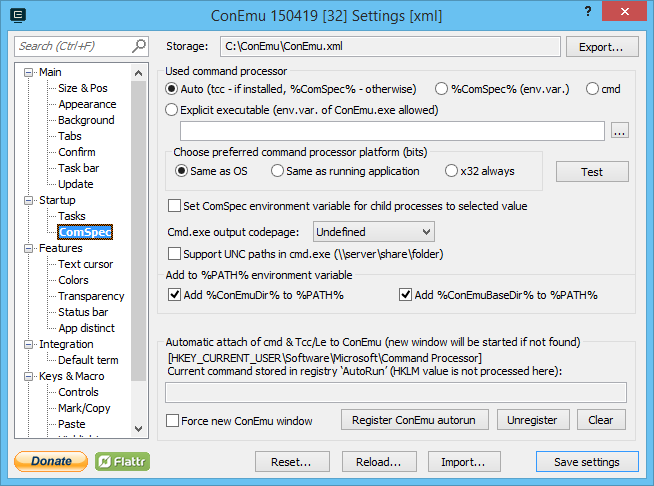
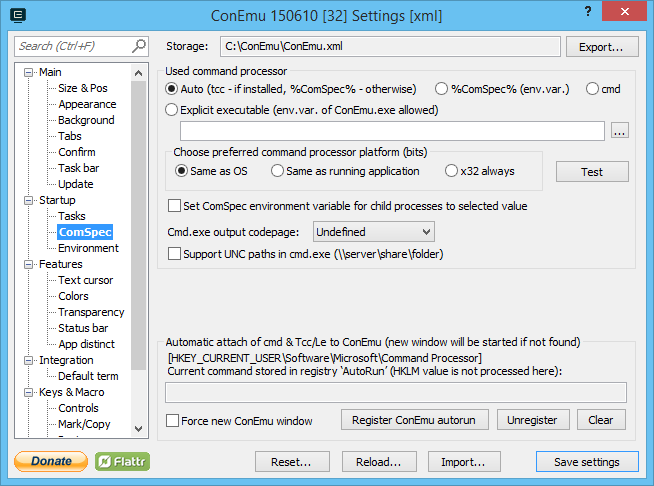
Add 'Environment' page description

diff --git a/en/SettingsEnvironment.md b/en/SettingsEnvironment.md
@@ -1,0 +1,116 @@
+---
+redirect_from: /ru/SettingsEnvironment.html
+
+title: "ConEmu | Settings › Environment page"
+
+readalso:
+ - url: ConEmuEnvironment.html
+   title: "ConEmu Environment Variables"
+ - url: WindowsEnvironment.html
+   title: "Windows Environment Variables"
+ - url: SettingsComspec.html
+   title: "Settings › Comspec page"
+---
+
+# Settings: Environment
+
+{% comment %} IDD_SPG_ENVIRONMENT {% endcomment %}
+
+![ConEmu Settings: Environment](/img/Settings-Environment.png)
+
+
+## Add to %PATH% environment variable
+
+Here you may add to the `PATH` environment variables
+for processes running inside ConEmu
+([tabs](Tabs.html) and [splits](SplitScreen.html)).
+
+**Add %ConEmuDir% to %PATH%**. If checked you may run `ConEmu.exe` and `ConEmu64.exe`
+from your [command-line interpreter](TerminalVsShell.md).
+Example below.
+
+~~~
+ConEmu -basic -noquake -nosingle -startTSA -cmd <build your project command line>
+~~~
+
+**Add %ConEmuBaseDir% to %PATH%**. If checked you may run `ConEmuC.exe` and `ConEmuC64.exe`
+from your [command-line interpreter](TerminalVsShell.md).
+`ConEmuC` is used generally to do some checks (`-IsConEmu` switch)
+and execute [GuiMacro](GuiMacro.html). Example below.
+
+~~~
+ConEmuC -GuiMacro Progress 3
+~~~
+
+
+
+## Set up environment variables, cmd.exe aliases, codepage
+
+Here you may do the fine tuning of your environment
+for processes running inside ConEmu
+([tabs](Tabs.html) and [splits](SplitScreen.html)).
+
+Limited set of commands are supported.
+
+
+### set
+
+You may define your environment variables here. Few examples below.
+
+~~~
+set HOME=C:\DropBox\Home
+set "PATH=%ConEmuBaseDir%\Scripts;%PATH%"
+~~~
+
+
+### chcp
+
+Same as `chcp.exe` standard command, but supports few aliases, for example:
+
+~~~
+chcp utf-8
+~~~
+
+**Don't use this command** if you are not aware of its meaning.
+Changing console code page to anything different from your default OEM page
+may harm output of some unaware console applications.
+
+
+### alias
+
+These aliases will work within `cmd.exe` and [Far Manager](FarManager.html) only.
+Actually this command will do the same thing as `DosKey.exe` is doing.
+Few examples below.
+
+#### "sudo" alias
+
+There is the [csudo](csudo.html) command file, but it is not user-configurable
+(will be overwritten with next update).
+You may create an alias with desired behavior.
+
+~~~
+alias sudo=ConEmuC -c $* -new_console:a
+~~~
+
+And you may just run in your non-elevated cmd.exe prompt (inside ConEmu of course):
+
+~~~
+sudo dispart
+~~~
+
+New elevated tab with `diskpart.exe` will be started (after UAC confirmation).
+
+#### "st" alias
+
+Use "start" to start new console application inside ConEmu
+with disabled `Press Enter or Esc to close console` confirmation.
+
+~~~
+alias st=start $* -cur_console:n
+~~~
+
+We use `-cur_console:n` here instead of `-new_console:n` because
+with `-new_console` new [tab](LaunchNewTab.html) will be created
+with `start` command, `-new_console` will be stripped from arguments
+and ‘true’ tab with your console application will start without
+this switch.

diff --git a/en/SettingsComspec.md b/en/SettingsComspec.md
@@ -2,11 +2,19 @@
 redirect_from: /ru/SettingsComspec.html
 
 title: "ConEmu | Settings › Comspec page"
+
+readalso:
+ - url: SettingsEnvironment.html
+   title: "Settings › Environment page"
+ - url: TerminalVsShell.html
+   title: "Terminal vs Shell"
 ---
 
 # Settings: ComSpec
 
-*This page was generated automatically from ConEmu sources*
+{% comment %}
+*This page was manually edited automatically generated from ConEmu sources)*
+{% endcomment %}
 {% comment %} IDD_SPG_COMSPEC {% endcomment %}
 
 ![ConEmu Settings: ComSpec](/img/Settings-Comspec.png)
@@ -14,9 +22,6 @@ title: "ConEmu | Settings › Comspec page"
 
 
 ## Used command processor
-
-
-
 
 * **Auto (tcc - if installed, %ComSpec% - otherwise)** Start tcc - if installed, %ComSpec% - otherwise (used for ‘Create new ‘cmd.exe’ console’)
 * **%ComSpec% (env.var.)** Use %ComSpec% environment variable (used for ‘Create new ‘cmd.exe’ console’)
@@ -48,31 +53,10 @@ title: "ConEmu | Settings › Comspec page"
 
 **Support UNC paths in cmd.exe (\\server\share\folder)** 
 
-## Add to %PATH% environment variable
-
-**Add %ConEmuDir% to %PATH%** 
-
-**Add %ConEmuBaseDir% to %PATH%** 
-
-
-
-
-
-## Choose preferred command processor platform (bits)
-
-
-
-
-
-## Add to %PATH% environment variable
-
-
 
 
 
 ## Automatic attach of cmd & Tcc/Le to ConEmu (new window will be started if not found)
-
-
 
 **[HKEY_CURRENT_USER\Software\Microsoft\Command Processor] Current command stored in registry ‘AutoRun’ (HKLM value is not processed here)** 
 

diff --git a/en/Settings.md b/en/Settings.md
@@ -25,6 +25,7 @@ description: "Where the settings are stored, Settings dialog description,
   * [Startup](#Startup)
   * [Tasks](#Tasks)
   * [ComSpec](#ComSpec)
+  * [Environment](#Environment)
   * [Features](#Features)
     * [RealConsole font](#RealConsole_font)
   * [Text cursor](#Text_cursor)
@@ -176,6 +177,11 @@ You may open settings dialog in several ways
 <h3 id="ComSpec"> ComSpec </h3>
 
 [![ConEmu settings, Comspec page](/img/Settings-Comspec.png "Click to open description")](SettingsComspec.html)
+
+
+<h3 id="Environment"> Environment </h3>
+
+[![ConEmu settings, Environment page](/img/Settings-Environment.png "Click to open description")](SettingsEnvironment.html)
 
 
 <h3 id="Features"> Features </h3>

diff --git a/ru/TableOfContents.md b/ru/TableOfContents.md
@@ -65,6 +65,7 @@ h1_title: Оглавление документации по ConEmu
     * [Startup](SettingsStartup.html)
       * [Tasks](SettingsTasks.html)
       * [ComSpec](SettingsComspec.html)
+      * [Environment](SettingsEnvironment.html)
     * [Features](SettingsFeatures.html)
       * [Text cursor](SettingsTextCursor.html)
       * [Colors](SettingsColors.html)

diff --git a/en/TableOfContents.md b/en/TableOfContents.md
@@ -65,6 +65,7 @@ h1_title: ConEmu Documentation Table of Contents
     * [Startup](SettingsStartup.html)
       * [Tasks](SettingsTasks.html)
       * [ComSpec](SettingsComspec.html)
+      * [Environment](SettingsEnvironment.html)
     * [Features](SettingsFeatures.html)
       * [Text cursor](SettingsTextCursor.html)
       * [Colors](SettingsColors.html)
